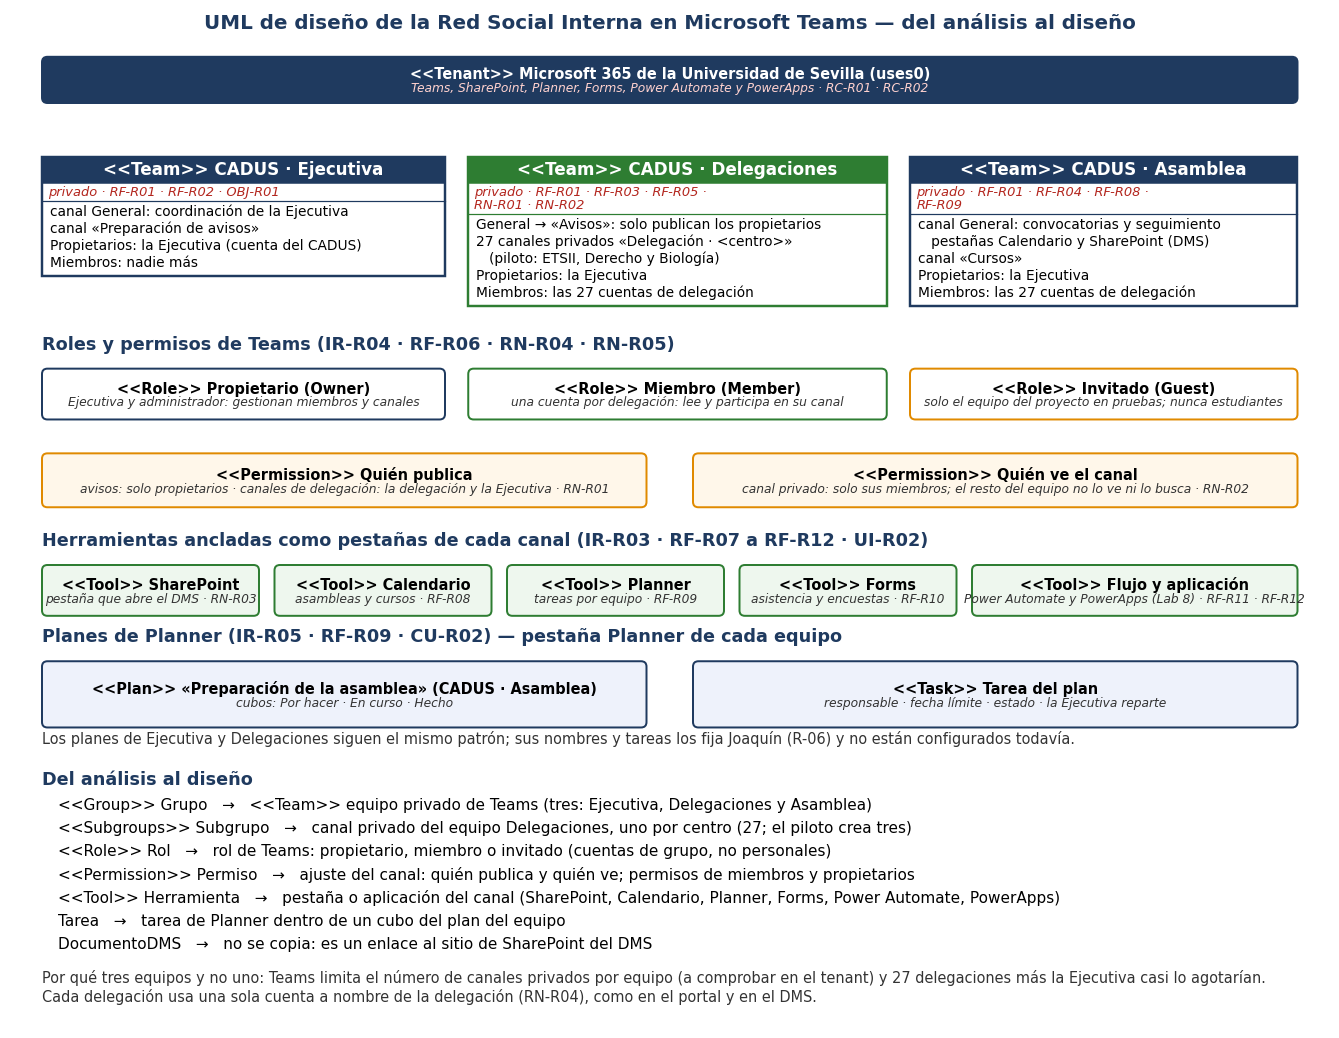
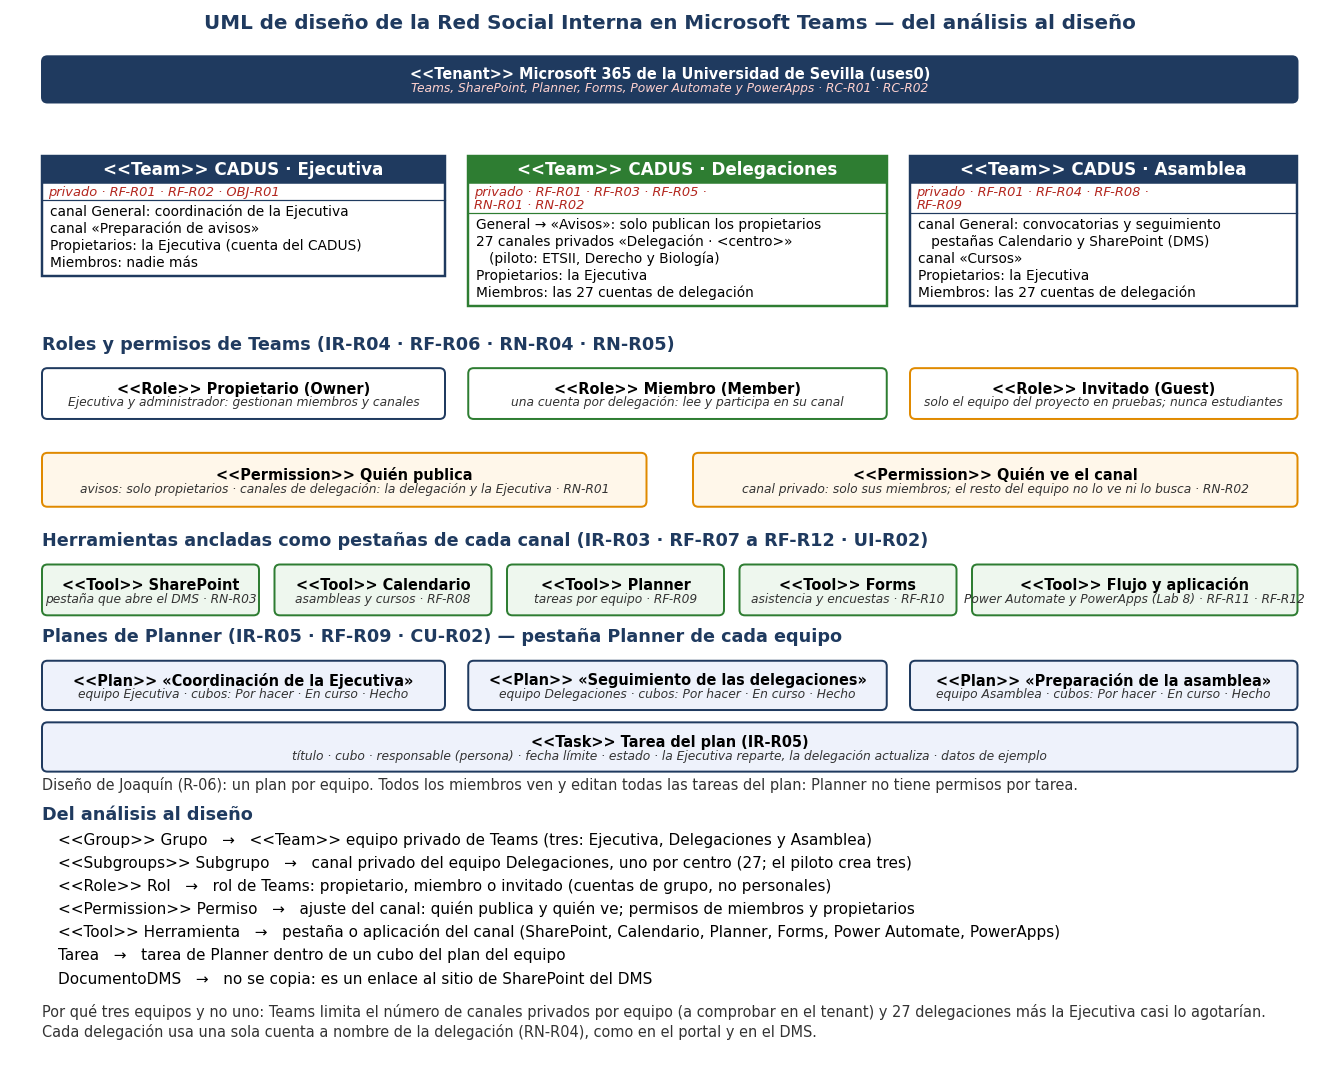
docs(redsocial): UML de diseno con los tres planes de Planner de Joaquin

diff --git a/scripts/redsocial/diagramas_rsi.py b/scripts/redsocial/diagramas_rsi.py
@@ -48,7 +48,7 @@ def analisis():
 
 
 def diseno():
-    fig, ax = lienzo(1700, 1320)
+    fig, ax = lienzo(1700, 1370)
     ax.text(850, 24, "UML de diseño de la Red Social Interna en Microsoft Teams — del análisis al diseño", ha="center", fontsize=13, fontweight="bold", color=AZUL)
     caja(ax, 40, 60, 1620, 60, "<<Tenant>> Microsoft 365 de la Universidad de Sevilla (uses0)", "Teams, SharePoint, Planner, Forms, Power Automate y PowerApps · RC-R01 · RC-R02", fc=AZUL, ec=AZUL, subcolor="#ffd2cf", titcolor="white")
     eje = clase(ax, 40, 190, 520, "<<Team>> CADUS · Ejecutiva", "privado · RF-R01 · RF-R02 · OBJ-R01",
@@ -72,11 +72,12 @@ def diseno():
     for t, s, x in herr:
         caja(ax, x, 720, 280 if x < 1240 else 420, 66, t, s, fc="#eef7ee", ec=VERDE, subcolor="#333")
     ax.text(40, 820, "Planes de Planner (IR-R05 · RF-R09 · CU-R02) — pestaña Planner de cada equipo", fontsize=11.5, fontweight="bold", color=AZUL)
-    caja(ax, 40, 845, 780, 86, "<<Plan>> «Preparación de la asamblea» (CADUS · Asamblea)", "cubos: Por hacer · En curso · Hecho", fc="#eef2fb", ec=AZUL, subcolor="#333")
-    caja(ax, 880, 845, 780, 86, "<<Task>> Tarea del plan", "responsable · fecha límite · estado · la Ejecutiva reparte", fc="#eef2fb", ec=AZUL, subcolor="#333")
-    ax.text(40, 952, "Los planes de Ejecutiva y Delegaciones siguen el mismo patrón; sus nombres y tareas los fija Joaquín (R-06) y no están configurados todavía.", fontsize=9.5, color="#333")
-    ax.text(40, 965, "", fontsize=1)
-    ax.text(40, 1005, "Del análisis al diseño", fontsize=11.5, fontweight="bold", color=AZUL)
+    caja(ax, 40, 845, 520, 64, "<<Plan>> «Coordinación de la Ejecutiva»", "equipo Ejecutiva · cubos: Por hacer · En curso · Hecho", fc="#eef2fb", ec=AZUL, subcolor="#333")
+    caja(ax, 590, 845, 540, 64, "<<Plan>> «Seguimiento de las delegaciones»", "equipo Delegaciones · cubos: Por hacer · En curso · Hecho", fc="#eef2fb", ec=AZUL, subcolor="#333")
+    caja(ax, 1160, 845, 500, 64, "<<Plan>> «Preparación de la asamblea»", "equipo Asamblea · cubos: Por hacer · En curso · Hecho", fc="#eef2fb", ec=AZUL, subcolor="#333")
+    caja(ax, 40, 925, 1620, 64, "<<Task>> Tarea del plan (IR-R05)", "título · cubo · responsable (persona) · fecha límite · estado · la Ejecutiva reparte, la delegación actualiza · datos de ejemplo", fc="#eef2fb", ec=AZUL, subcolor="#333")
+    ax.text(40, 1012, "Diseño de Joaquín (R-06): un plan por equipo. Todos los miembros ven y editan todas las tareas del plan: Planner no tiene permisos por tarea.", fontsize=9.5, color="#333")
+    ax.text(40, 1050, "Del análisis al diseño", fontsize=11.5, fontweight="bold", color=AZUL)
     filas = [("<<Group>> Grupo", "→", "<<Team>> equipo privado de Teams (tres: Ejecutiva, Delegaciones y Asamblea)"),
              ("<<Subgroups>> Subgrupo", "→", "canal privado del equipo Delegaciones, uno por centro (27; el piloto crea tres)"),
              ("<<Role>> Rol", "→", "rol de Teams: propietario, miembro o invitado (cuentas de grupo, no personales)"),
@@ -85,9 +86,9 @@ def diseno():
              ("Tarea", "→", "tarea de Planner dentro de un cubo del plan del equipo"),
              ("DocumentoDMS", "→", "no se copia: es un enlace al sitio de SharePoint del DMS")]
     for i, (a, f, b) in enumerate(filas):
-        ax.text(60, 1038 + 30 * i, f"{a}   {f}   {b}", fontsize=10)
-    ax.text(40, 1262, "Por qué tres equipos y no uno: Teams limita el número de canales privados por equipo (a comprobar en el tenant) y 27 delegaciones más la Ejecutiva casi lo agotarían.", fontsize=9.5, color="#333")
-    ax.text(40, 1287, "Cada delegación usa una sola cuenta a nombre de la delegación (RN-R04), como en el portal y en el DMS.", fontsize=9.5, color="#333")
+        ax.text(60, 1083 + 30 * i, f"{a}   {f}   {b}", fontsize=10)
+    ax.text(40, 1307, "Por qué tres equipos y no uno: Teams limita el número de canales privados por equipo (a comprobar en el tenant) y 27 delegaciones más la Ejecutiva casi lo agotarían.", fontsize=9.5, color="#333")
+    ax.text(40, 1332, "Cada delegación usa una sola cuenta a nombre de la delegación (RN-R04), como en el portal y en el DMS.", fontsize=9.5, color="#333")
     guardar(fig, "uml-rsi-diseno.png")
 
 
